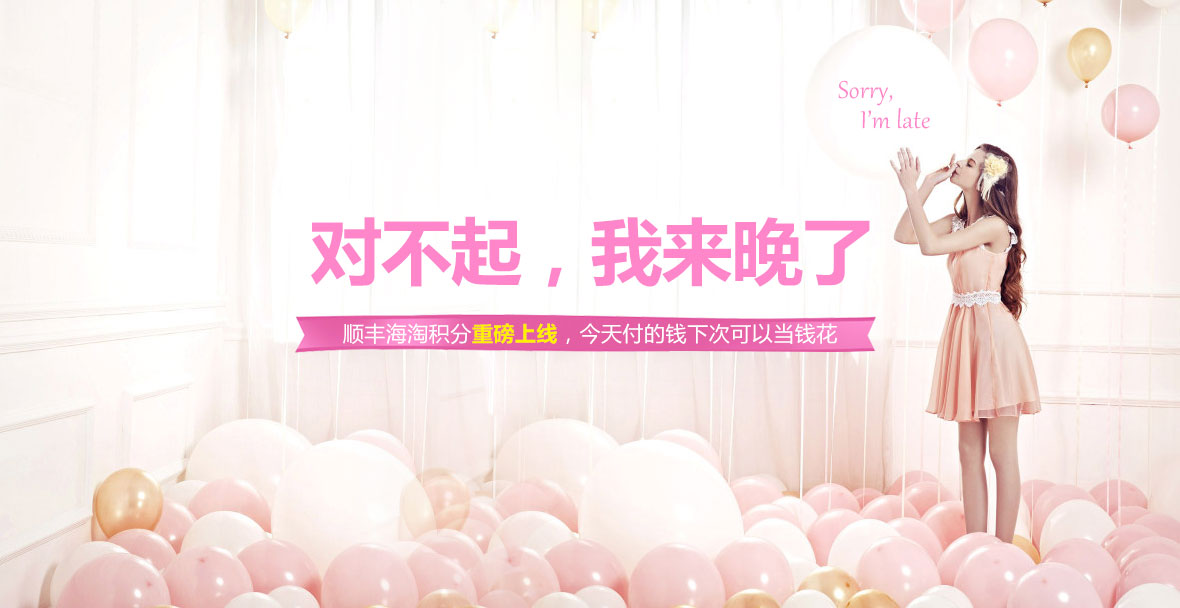
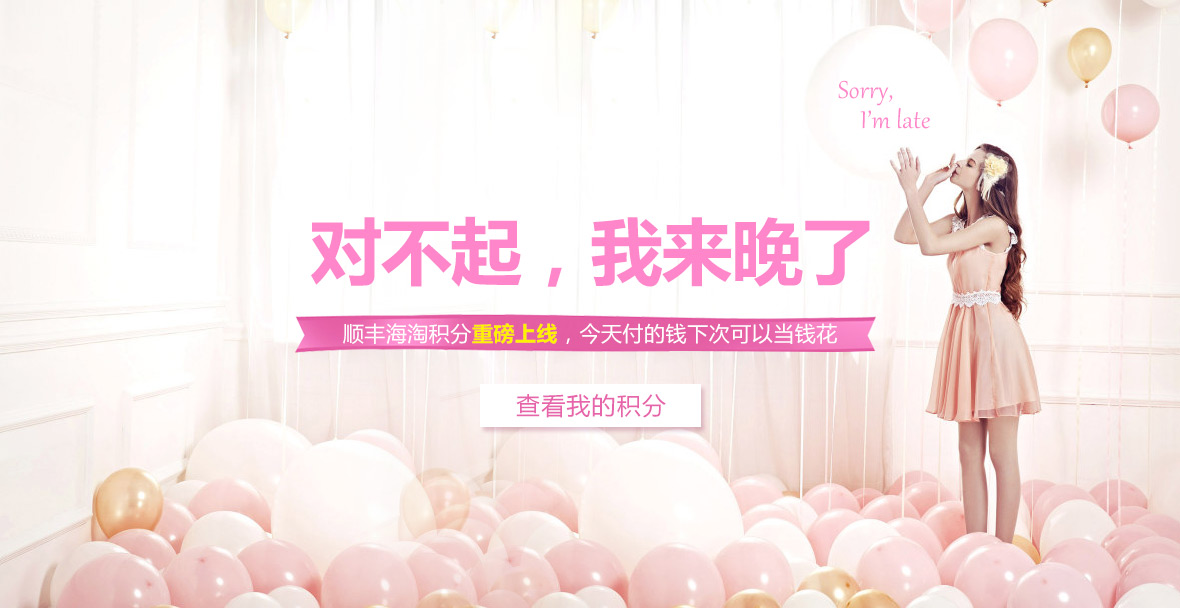
积分活动

Changed region(s): [[0.3966, 0.625, 0.6102, 0.7188]]

diff --git a/app/html/cart.html b/app/html/cart.html
@@ -1,1 +1,1 @@
-<!DOCTYPE html PUBLIC "-//W3C//DTD XHTML 1.0 Transitional//EN" "http://www.w3.org/TR/xhtml1/DTD/xhtml1-transitional.dtd"><html xmlns="http://www.w3.org/1999/xhtml"><head><meta http-equiv="Content-Type" content="text/html; charset=utf-8" /><meta name="viewport" content="width=1280"><title>确定订单</title><link href="../css/common.css" rel="stylesheet" type="text/css" /><link href="../css/cart.css" rel="stylesheet" type="text/css" /></head><body><div class="ph"><div class="header1"><div class="pm"><div class="header1-c1 fl"><a href=""><span class="icon icon11"></span>海淘首页</a><a href="">登录</a><a href="">免费注册</a></div><div class="header1-c2 fr"><a href="">个人中心</a><a href="">帮助中心</a><a href="">我的优惠券</a><a href="">帮助中心</a><a href="">在线客服</a></div></div></div><div class="header"><div class="pm clearfix"><div class="header-c1 fl"><a href="#" class="icon icon10">顺丰海淘</a></div><div class="header-c2 fr"><!--步骤--><!--<ul class="step"><ul class="step step2"><--><ul class="step step3"><li class="li1"><em>1</em>填写并核对订单信息<div class="step-arrow step-arrow-1"></div><div class="step-arrow step-arrow-2"></div></li><li class="li2"><em>2</em>成功提交订单<div class="step-arrow step-arrow-1"></div><div class="step-arrow step-arrow-2"></div></li><li class="li3"><em>3</em>订单支付成功</li></ul><!--步骤--></div></div>  </div><!--导航--><div class="nav"><div class="nav-inner"><div class="pm"><ul class="fl nav-c1"><li class="active"><a href="">首页</a></li><li><a href="">母婴专区</a></li><li><a href="">个护美装</a></li><li><a href="">食品保健</a></li><li><a href="">生活服饰</a><span class="icon icon54">NEW</span></li><li><a href="">黑5狂欢</a><span class="icon icon55">HOT</span></li><li><a href="">正品保障</a></li></ul><div class="nav-c2 fr"><a href=""><span class="icon icon100"></span><span class="nav-text">购物车</span><span class="label label-error"><i></i><span class="cart-num">6</span></span></a></div></div></div></div><div class="nav nav-fixed"><div class="nav-inner"><div class="pm"><ul class="fl nav-c1"><li class="active"><a href="">首页</a></li><li><a href="">母婴专区</a></li><li><a href="">个护美装</a></li><li><a href="">食品保健</a></li><li><a href="">生活服饰</a><span class="icon icon54">NEW</span></li><li><a href="">黑5狂欢</a><span class="icon icon55">HOT</span></li><li><a href="">正品保障</a></li></ul><div class="nav-c2 fr"><a href=""><span class="icon icon100"></span><span class="nav-text">购物车</span><span class="label label-error"><i></i><span class="cart-num">6</span></span></a></div></div></div></div></div><div class="pb"><div class="pm"> <!--购物车--><div class="cart"><div class="table"><table><thead><tr><th class="th1"><input type="checkbox">全选</th><th class="th2">商品信息</th><th class="th3">单价（元）</th><th class="th4">数量</th><th class="th5">金额</th><th class="th6">操作</th></tr></thead><tbody><tr><td class="td1" colspan="2"><input type="checkbox"> 搭配优惠：商品名称不要在意我叫神马</td><td class="td3"><strong>599.00</strong></td><td class="td4"><div><span class="btn btn-num"><a class="btn-num-reduce" href="#">-</a><a class="btn-num-add" href="#">+</a><input type="text" value="1"></span></div><p class="text-error">限购 2 套</p></td><td class="td5"><strong class="text-error">599.00</strong></td><td class="td6"><a class="icon icon72" href="">删除</a></td></tr><tr class="cart-match cart-match1"><td class="td1"><span class="label label-disabled">已下架</span> <a href=""><img src="http://placehold.it/75x75"></a></td><td class="td2"><h2><a href="">韩国Nature Republic自然乐园芦荟胶300ml/瓶x2</a></h2><div class="cart-standard">蓝色 20com</div></td><td class="td3"><del>1099.00</del><strong>599.00</strong><div class="icon icon73">限时促销</div></td><td class="td4"><div><span class="btn btn-num"><a class="btn-num-reduce" href="#">-</a><a class="btn-num-add" href="#">+</a><input type="text" value="1"></span></div><p class="text-error">限购 2 件</p></td><td class="td5"><strong class="text-error">599.00</strong></td><td class="td6"><a class="icon icon72" href="">删除</a></td></tr><tr class="cart-match"><td class="td1"><a href=""><img src="http://placehold.it/75x75"></a></td><td class="td2"><h2><a href="">韩国Nature Republic自然乐园芦荟胶300ml/瓶x2</a></h2><div class="cart-standard">蓝色 20com</div></td><td class="td3"><del>1099.00</del><strong>599.00</strong><div class="icon icon73">限时促销</div></td><td class="td4"><div><span class="btn btn-num"><a class="btn-num-reduce" href="#">-</a><a class="btn-num-add" href="#">+</a><input type="text" value="1"></span></div><p class="text-error">限购 2 件</p></td><td class="td5"><strong class="text-error">599.00</strong></td><td class="td6"><a class="icon icon72" href="">删除</a></td></tr><tr class="cart-match"><td class="td1"><a href=""><img src="http://placehold.it/75x75"></a></td><td class="td2"><h2><a href="">韩国Nature Republic自然乐园芦荟胶300ml/瓶x2</a></h2><div class="cart-standard">蓝色 20com</div></td><td class="td3"><del>1099.00</del><strong>599.00</strong><div class="icon icon73">限时促销</div></td><td class="td4"><div><span class="btn btn-num"><a class="btn-num-reduce" href="#">-</a><a class="btn-num-add" href="#">+</a><input type="text" value="1"></span></div><p class="text-error">限购 2 件</p></td><td class="td5"><strong class="text-error">599.00</strong></td><td class="td6"><a class="icon icon72" href="">删除</a></td></tr><tr><td class="td1"><input type="checkbox"> <a href=""><img src="http://placehold.it/75x75"></a></td><td class="td2"><h2><a href="">韩国Nature Republic自然乐园芦荟胶300ml/瓶x2</a></h2><div class="cart-standard">蓝色 20com</div></td><td class="td3"><del>1099.00</del><strong>599.00</strong><div class="icon icon73">限时促销</div></td><td class="td4"><div><span class="btn btn-num"><a class="btn-num-reduce" href="#">-</a><a class="btn-num-add" href="#">+</a><input type="text" value="1"></span></div><p class="text-error">限购 2 件</p></td><td class="td5"><strong class="text-error">599.00</strong></td><td class="td6"><a class="icon icon72" href="">删除</a></td></tr><tr><td class="td1"><input type="checkbox"> <a href=""><img src="http://placehold.it/75x75"></a></td><td class="td2"><h2><a href="">韩国Nature Republic自然乐园芦荟胶300ml/瓶x2</a></h2><div class="cart-standard">蓝色 20com</div></td><td class="td3"><strong>599.00</strong></td><td class="td4"><div><span class="btn btn-num"><a class="btn-num-reduce" href="#">-</a><a class="btn-num-add" href="#">+</a><input type="text" value="1"></span></div><p>限购 2 件</p></td><td class="td5"><strong class="text-error">599.00</strong></td><td class="td6"><a class="icon icon72" href="">删除</a></td></tr><tr><td class="td1"><input type="checkbox"> <a href=""><img src="http://placehold.it/75x75"></a></td><td class="td2"><h2><a href="">韩国Nature Republic自然乐园芦荟胶300ml/瓶x2</a></h2><div class="cart-standard">蓝色 20com</div></td><td class="td3"><strong>599.00</strong></td><td class="td4"><div><span class="btn btn-num"><a class="btn-num-reduce" href="#">-</a><a class="btn-num-add" href="#">+</a><input type="text" value="1"></span></div></td><td class="td5"><strong class="text-error">599.00</strong></td><td class="td6"><a class="icon icon72" href="">删除</a></td></tr><tr><td class="td1"><div class="cart-pos"><input type="checkbox"> <a href=""><img src="http://placehold.it/75x75"></a><span class="icon icon74">满折减</span></div></td><td class="td2"><div class="text-error">已满足2件8折优惠 <a class="text-error">更多活动内容>  </a></div><h2><a href="">韩国Nature Republic自然乐园芦荟胶300ml/瓶x2</a></h2><div class="cart-standard">蓝色 20com</div></td><td class="td3"><strong>599.00</strong></td><td class="td4"><div><span class="btn btn-num"><a class="btn-num-reduce" href="#">-</a><a class="btn-num-add" href="#">+</a><input type="text" value="1"></span></div></td><td class="td5"><del>1099.00</del><strong class="text-error">599.00</strong></td><td class="td6"><a class="icon icon72" href="">删除</a></td></tr><tr><td class="td1"><input type="checkbox"> <a href=""><img src="http://placehold.it/75x75"></a></td><td class="td2"><h2><a href="">韩国Nature Republic自然乐园芦荟胶300ml/瓶x2</a></h2><div class="cart-standard">蓝色 20com</div></td><td class="td3"><strong>599.00</strong></td><td class="td4"><div><span class="btn btn-num"><a class="btn-num-reduce" href="#">-</a><a class="btn-num-add" href="#">+</a><input type="text" value="1"></span></div></td><td class="td5"><strong class="text-error">599.00</strong></td><td class="td6"><a class="icon icon72" href="">删除</a></td></tr><tr><td class="td1"><input type="checkbox"> <a href=""><img src="http://placehold.it/75x75"></a></td><td class="td2"><h2><a href="">韩国Nature Republic自然乐园芦荟胶300ml/瓶x2</a></h2><div class="cart-standard">蓝色 20com</div></td><td class="td3"><strong>599.00</strong></td><td class="td4"><div><span class="btn btn-num"><a class="btn-num-reduce" href="#">-</a><a class="btn-num-add" href="#">+</a><input type="text" value="1"></span></div></td><td class="td5"><del>1099.00</del><strong class="text-error">599.00</strong></td><td class="td6"><a class="icon icon72" href="">删除</a></td></tr><tr class="cart-disable"><td class="td1"><input type="checkbox" disabled> <span class="label label-disabled">已下架</span>   <a href=""><img src="http://placehold.it/75x75"></a></td><td class="td2"><h2><a href="">韩国Nature Republic自然乐园芦荟胶300ml/瓶x2</a></h2><div class="cart-standard">蓝色 20com</div></td><td class="td3"><strong>599.00</strong></td><td class="td4">1</td><td class="td5"><del>1099.00</del><strong class="text-error">599.00</strong></td><td class="td6"><a class="icon icon72" href="">删除</a></td></tr><tr class="cart-disable"><td class="td1"><input type="checkbox" disabled> <span class="label label-disabled">已下架</span>   <a href=""><img src="http://placehold.it/75x75"></a></td><td class="td2"><h2><a href="">韩国Nature Republic自然乐园芦荟胶300ml/瓶x2</a></h2><div class="cart-standard">蓝色 20com</div></td><td class="td3"><strong>599.00</strong></td><td class="td4">1</td><td class="td5"><del>1099.00</del><strong class="text-error">599.00</strong></td><td class="td6"><a class="icon icon72" href="">删除</a></td></tr></tbody></table></div><div class="cart-footer cart-footer-fixed clearfix"><div class="cart-footer-c1 fl"><label><input type="checkbox" />全选</label>|<a href="">删除选中商品</a><a href="">清除无效商品</a></div><div class="cart-footer-c2 fr"><ul><li class="li1"><div class="tooltip-cart"><span class="icon icon77 fl"></span>您已经超过了海关<span class="text-error">限额¥1000</span>，请选择部分商品进行结算<span class="icon icon78"></span><span class="icon icon16-5"></span><span class="icon icon16-5 icon16-5-1"></span></div>总价（含税费） :<span class="s1"><strong class="text-error">¥1100</strong></span></li><li class="li1"><div class="tooltip-cart"><span class="icon icon77 fl"></span><span class="text-error">参加三个满减活动：省100</span><div class="tooltip-pos"><span class="icon icon78"></span><div class="tooltip-outer"><div class="tooltip tooltip-active"><ul><li>满足指定商品满<span class="text-important">200</span>减<span class="text-important">100</span>活动</li><li>满足指定商品满<span class="text-important">200</span>减<span class="text-important">50</span>活动</li><li>满足指定商品满<span class="text-important">200</span>减<span class="text-important">10</span>活动</li></ul><span class="icon icon16-3"><span class="icon icon16-4"></span></span></div></div></div><span class="icon icon16-5"></span><span class="icon icon16-5 icon16-5-1"></span></div>活动优惠 :<span class="s1">- ¥ 100</span></li></ul><button class="btn btn-disable">去结算</button></div><span class="icon icon75"></span><span class="icon icon76"></span></div></div><!--购物车--> </div></div><!--尾部--> <div class="pf"><a href="#" class="btn btn-top"><span class="icon icon57"></span></a><div class="footer1"><div class="pm"><ul class="clearfix"><li><span class="icon icon12"></span><h2>正品海外直采</h2><div class="footer1-line"></div></li><li><span class="icon icon13"></span><h2>国检监督入仓</h2><div class="footer1-line"></div></li><li><span class="icon icon14"></span><h2>快速清关报备</h2><div class="footer1-line"></div></li><li><span class="icon icon15"></span><h2>国内物流配送</h2><div class="footer1-line"></div></li><li><span class="icon icon65"></span><h2>用户收货确认</h2></li></ul></div></div><div class="footer2"><div class="pm clearfix"><div class="footer2-c1 fl"><span class="icon icon9"></span></div><div class="footer2-c2 fl"><dl><dt>顺丰海淘</dt><dd><a href="aboutus-aboutus.html">关于我们</a></dd><dd><a href="aboutus-policy.html">法律政策</a></dd><dd><a href="aboutus-contactus.html">联系我们</a></dd></dl><dl><dt>新手指南</dt><dd><a href="helpcenter-quality.html">正品保证</a></dd><dd><a href="helpcenter-shopping.html">购物指南</a></dd><dd><a href="helpcenter-cost.html">费用说明</a></dd></dl><dl><dt>帮助中心</dt><dd><a href="helpcenter-certification.html">实名认证</a></dd><dd><a href="helpcenter-signfor.html">签收说明</a></dd><dd><a href="helpcenter-transport-failure.html">运输时效</a></dd></dl><dl><dt>021-69763622</dt><dd>周一至周日 8:00 - 18:00 (节假日除外)</dd><dd><span class="icon icon41"></span><a href="mailto:sfht_service@sf-express.com">sfht_service@sf-express.com</a></dd><dd><span class="icon icon42"></span><a href="http://sf-ocs.sf-express.com:8080/live800/chatClient/chatbox.jsp?companyID=8935&amp;configID=20&amp;skillId=20&amp;enterurl=http%3A%2F%2Fsf-ocs%2Esf-express%2Ecom%3A8080%2Flive800%2Fpreview%2Ejsp&amp;pagereferrer=http%3A%2F%2Fsf-ocs%2Esf-express%2Ecom%3A8080%2Flive800%2FembedScript%2Ejsp%3FcurrentConfigId%3D20&amp;k=1">在线客服</a></dd></dl></div><div class="footer2-c4 fr">         <p>扫一扫下载App</p><img src="../img/qrcode.png" alt=""></div></div></div><div class="footer3">Copyright © 2015 SFHT.All Rights Reserved | 沪ICP备 1404464 顺丰速运集团（上海）速运有限公司 版权所有</div></div><!--尾部--> <script src="js/jquery-1.11.1.min.js"></script> <script src="js/index.js"></script><script src="js/cart.js"></script></body></html>
+<!DOCTYPE html PUBLIC "-//W3C//DTD XHTML 1.0 Transitional//EN" "http://www.w3.org/TR/xhtml1/DTD/xhtml1-transitional.dtd"><html xmlns="http://www.w3.org/1999/xhtml"><head><meta http-equiv="Content-Type" content="text/html; charset=utf-8" /><meta name="viewport" content="width=1280"><title>确定订单</title><link href="../css/common.css" rel="stylesheet" type="text/css" /><link href="../css/cart.css" rel="stylesheet" type="text/css" /></head><body><div class="ph"><div class="header1"><div class="pm"><div class="header1-c1 fl"><a href=""><span class="icon icon11"></span>海淘首页</a><a href="">登录</a><a href="">免费注册</a></div><div class="header1-c2 fr"><a href="">个人中心</a><a href="">帮助中心</a><a href="">我的优惠券</a><a href="">帮助中心</a><a href="">在线客服</a></div></div></div><div class="header"><div class="pm clearfix"><div class="header-c1 fl"><a href="#" class="icon icon10">顺丰海淘</a></div><div class="header-c2 fr"><!--步骤--><!--<ul class="step"><ul class="step step2"><--><ul class="step step3"><li class="li1"><em>1</em>填写并核对订单信息<div class="step-arrow step-arrow-1"></div><div class="step-arrow step-arrow-2"></div></li><li class="li2"><em>2</em>成功提交订单<div class="step-arrow step-arrow-1"></div><div class="step-arrow step-arrow-2"></div></li><li class="li3"><em>3</em>订单支付成功</li></ul><!--步骤--></div></div>  </div><!--导航--><div class="nav"><div class="nav-inner"><div class="pm"><ul class="fl nav-c1"><li class="active"><a href="">首页</a></li><li><a href="">母婴专区</a></li><li><a href="">个护美装</a></li><li><a href="">食品保健</a></li><li><a href="">生活服饰</a><span class="icon icon54">NEW</span></li><li><a href="">黑5狂欢</a><span class="icon icon55">HOT</span></li><li><a href="">正品保障</a></li></ul><div class="nav-c2 fr"><a href=""><span class="icon icon100"></span><span class="nav-text">购物车</span><span class="label label-error"><i></i><span class="cart-num">6</span></span></a></div></div></div></div><div class="nav nav-fixed"><div class="nav-inner"><div class="pm"><ul class="fl nav-c1"><li class="active"><a href="">首页</a></li><li><a href="">母婴专区</a></li><li><a href="">个护美装</a></li><li><a href="">食品保健</a></li><li><a href="">生活服饰</a><span class="icon icon54">NEW</span></li><li><a href="">黑5狂欢</a><span class="icon icon55">HOT</span></li><li><a href="">正品保障</a></li></ul><div class="nav-c2 fr"><a href=""><span class="icon icon100"></span><span class="nav-text">购物车</span><span class="label label-error"><i></i><span class="cart-num">6</span></span></a></div></div></div></div></div><div class="pb"><div class="pm"> <!--购物车--><div class="cart"><div class="table"><table><thead><tr><th class="th1"><input type="checkbox">全选</th><th class="th2">商品信息</th><th class="th3">单价（元）</th><th class="th4">数量</th><th class="th5">金额</th><th class="th6">操作</th></tr></thead><tbody><tr><td class="td1" colspan="2"><input type="checkbox"> 搭配优惠：商品名称不要在意我叫神马</td><td class="td3"><strong>599.00</strong></td><td class="td4"><div><span class="btn btn-num"><a class="btn-num-reduce" href="#">-</a><a class="btn-num-add" href="#">+</a><input type="text" value="1"></span></div><p class="text-error">限购 2 套</p></td><td class="td5"><strong class="text-error">599.00</strong></td><td class="td6"><a class="icon icon72" href="">删除</a></td></tr><tr class="cart-match cart-match1"><td class="td1"><span class="label label-disabled">已下架</span> <a href=""><img src="http://placehold.it/75x75"></a></td><td class="td2"><h2><a href="">韩国Nature Republic自然乐园芦荟胶300ml/瓶x2</a></h2><div class="cart-standard">蓝色 20com</div></td><td class="td3"><del>1099.00</del><strong>599.00</strong><div class="icon icon73">限时促销</div></td><td class="td4"><p class="text-error">限购 2 件</p></td><td class="td5"><strong class="text-error">599.00</strong></td><td class="td6"><a class="icon icon72" href="">删除</a></td></tr><tr class="cart-match"><td class="td1"><a href=""><img src="http://placehold.it/75x75"></a></td><td class="td2"><h2><a href="">韩国Nature Republic自然乐园芦荟胶300ml/瓶x2</a></h2><div class="cart-standard">蓝色 20com</div></td><td class="td3"><del>1099.00</del><strong>599.00</strong><div class="icon icon73">限时促销</div></td><td class="td4"><p class="text-error">限购 2 件</p></td><td class="td5"><strong class="text-error">599.00</strong></td><td class="td6"><a class="icon icon72" href="">删除</a></td></tr><tr class="cart-match"><td class="td1"><a href=""><img src="http://placehold.it/75x75"></a></td><td class="td2"><h2><a href="">韩国Nature Republic自然乐园芦荟胶300ml/瓶x2</a></h2><div class="cart-standard">蓝色 20com</div></td><td class="td3"><del>1099.00</del><strong>599.00</strong><div class="icon icon73">限时促销</div></td><td class="td4"><p class="text-error">限购 2 件</p></td><td class="td5"><strong class="text-error">599.00</strong></td><td class="td6"><a class="icon icon72" href="">删除</a></td></tr><tr><td class="td1"><input type="checkbox"> <a href=""><img src="http://placehold.it/75x75"></a></td><td class="td2"><h2><a href="">韩国Nature Republic自然乐园芦荟胶300ml/瓶x2</a></h2><div class="cart-standard">蓝色 20com</div></td><td class="td3"><del>1099.00</del><strong>599.00</strong><div class="icon icon73">限时促销</div></td><td class="td4"><p class="text-error">限购 2 件</p></td><td class="td5"><strong class="text-error">599.00</strong></td><td class="td6"><a class="icon icon72" href="">删除</a></td></tr><tr><td class="td1"><input type="checkbox"> <a href=""><img src="http://placehold.it/75x75"></a></td><td class="td2"><h2><a href="">韩国Nature Republic自然乐园芦荟胶300ml/瓶x2</a></h2><div class="cart-standard">蓝色 20com</div></td><td class="td3"><strong>599.00</strong></td><td class="td4"><p>限购 2 件</p></td><td class="td5"><strong class="text-error">599.00</strong></td><td class="td6"><a class="icon icon72" href="">删除</a></td></tr><tr><td class="td1"><input type="checkbox"> <a href=""><img src="http://placehold.it/75x75"></a></td><td class="td2"><h2><a href="">韩国Nature Republic自然乐园芦荟胶300ml/瓶x2</a></h2><div class="cart-standard">蓝色 20com</div></td><td class="td3"><strong>599.00</strong></td><td class="td4"><div><span class="btn btn-num"><a class="btn-num-reduce" href="#">-</a><a class="btn-num-add" href="#">+</a><input type="text" value="1"></span></div></td><td class="td5"><strong class="text-error">599.00</strong></td><td class="td6"><a class="icon icon72" href="">删除</a></td></tr><tr><td class="td1"><div class="cart-pos"><input type="checkbox"> <a href=""><img src="http://placehold.it/75x75"></a><span class="icon icon74">满折减</span></div></td><td class="td2"><div class="text-error">已满足2件8折优惠 <a class="text-error">更多活动内容>  </a></div><h2><a href="">韩国Nature Republic自然乐园芦荟胶300ml/瓶x2</a></h2><div class="cart-standard">蓝色 20com</div></td><td class="td3"><strong>599.00</strong></td><td class="td4"><div><span class="btn btn-num"><a class="btn-num-reduce" href="#">-</a><a class="btn-num-add" href="#">+</a><input type="text" value="1"></span></div></td><td class="td5"><del>1099.00</del><strong class="text-error">599.00</strong></td><td class="td6"><a class="icon icon72" href="">删除</a></td></tr><tr><td class="td1"><input type="checkbox"> <a href=""><img src="http://placehold.it/75x75"></a></td><td class="td2"><h2><a href="">韩国Nature Republic自然乐园芦荟胶300ml/瓶x2</a></h2><div class="cart-standard">蓝色 20com</div></td><td class="td3"><strong>599.00</strong></td><td class="td4"><div><span class="btn btn-num"><a class="btn-num-reduce" href="#">-</a><a class="btn-num-add" href="#">+</a><input type="text" value="1"></span></div></td><td class="td5"><strong class="text-error">599.00</strong></td><td class="td6"><a class="icon icon72" href="">删除</a></td></tr><tr><td class="td1"><input type="checkbox"> <a href=""><img src="http://placehold.it/75x75"></a></td><td class="td2"><h2><a href="">韩国Nature Republic自然乐园芦荟胶300ml/瓶x2</a></h2><div class="cart-standard">蓝色 20com</div></td><td class="td3"><strong>599.00</strong></td><td class="td4"><div><span class="btn btn-num"><a class="btn-num-reduce" href="#">-</a><a class="btn-num-add" href="#">+</a><input type="text" value="1"></span></div></td><td class="td5"><del>1099.00</del><strong class="text-error">599.00</strong></td><td class="td6"><a class="icon icon72" href="">删除</a></td></tr><tr class="cart-disable"><td class="td1"><input type="checkbox" disabled> <span class="label label-disabled">已下架</span>   <a href=""><img src="http://placehold.it/75x75"></a></td><td class="td2"><h2><a href="">韩国Nature Republic自然乐园芦荟胶300ml/瓶x2</a></h2><div class="cart-standard">蓝色 20com</div></td><td class="td3"><strong>599.00</strong></td><td class="td4">1</td><td class="td5"><del>1099.00</del><strong class="text-error">599.00</strong></td><td class="td6"><a class="icon icon72" href="">删除</a></td></tr><tr class="cart-disable"><td class="td1"><input type="checkbox" disabled> <span class="label label-disabled">已下架</span>   <a href=""><img src="http://placehold.it/75x75"></a></td><td class="td2"><h2><a href="">韩国Nature Republic自然乐园芦荟胶300ml/瓶x2</a></h2><div class="cart-standard">蓝色 20com</div></td><td class="td3"><strong>599.00</strong></td><td class="td4">1</td><td class="td5"><del>1099.00</del><strong class="text-error">599.00</strong></td><td class="td6"><a class="icon icon72" href="">删除</a></td></tr></tbody></table></div><div class="cart-footer cart-footer-fixed clearfix"><div class="cart-footer-c1 fl"><label><input type="checkbox" />全选</label>|<a href="">删除选中商品</a><a href="">清除无效商品</a></div><div class="cart-footer-c2 fr"><ul><li class="li1"><div class="tooltip-cart"><span class="icon icon77 fl"></span>您已经超过了海关<span class="text-error">限额¥1000</span>，请选择部分商品进行结算<span class="icon icon78"></span><span class="icon icon16-5"></span><span class="icon icon16-5 icon16-5-1"></span></div>总价（含税费） :<span class="s1"><strong class="text-error">¥1100</strong></span></li><li class="li1"><div class="tooltip-cart"><span class="icon icon77 fl"></span><span class="text-error">参加三个满减活动：省100</span><div class="tooltip-pos"><span class="icon icon78"></span><div class="tooltip-outer"><div class="tooltip tooltip-active"><ul><li>满足指定商品满<span class="text-important">200</span>减<span class="text-important">100</span>活动</li><li>满足指定商品满<span class="text-important">200</span>减<span class="text-important">50</span>活动</li><li>满足指定商品满<span class="text-important">200</span>减<span class="text-important">10</span>活动</li></ul><span class="icon icon16-3"><span class="icon icon16-4"></span></span></div></div></div><span class="icon icon16-5"></span><span class="icon icon16-5 icon16-5-1"></span></div>活动优惠 :<span class="s1">- ¥ 100</span></li></ul><button class="btn btn-disable">去结算</button></div><span class="icon icon75"></span><span class="icon icon76"></span></div></div><!--购物车--> </div></div><!--尾部--> <div class="pf"><a href="#" class="btn btn-top"><span class="icon icon57"></span></a><div class="footer1"><div class="pm"><ul class="clearfix"><li><span class="icon icon12"></span><h2>正品海外直采</h2><div class="footer1-line"></div></li><li><span class="icon icon13"></span><h2>国检监督入仓</h2><div class="footer1-line"></div></li><li><span class="icon icon14"></span><h2>快速清关报备</h2><div class="footer1-line"></div></li><li><span class="icon icon15"></span><h2>国内物流配送</h2><div class="footer1-line"></div></li><li><span class="icon icon65"></span><h2>用户收货确认</h2></li></ul></div></div><div class="footer2"><div class="pm clearfix"><div class="footer2-c1 fl"><span class="icon icon9"></span></div><div class="footer2-c2 fl"><dl><dt>顺丰海淘</dt><dd><a href="aboutus-aboutus.html">关于我们</a></dd><dd><a href="aboutus-policy.html">法律政策</a></dd><dd><a href="aboutus-contactus.html">联系我们</a></dd></dl><dl><dt>新手指南</dt><dd><a href="helpcenter-quality.html">正品保证</a></dd><dd><a href="helpcenter-shopping.html">购物指南</a></dd><dd><a href="helpcenter-cost.html">费用说明</a></dd></dl><dl><dt>帮助中心</dt><dd><a href="helpcenter-certification.html">实名认证</a></dd><dd><a href="helpcenter-signfor.html">签收说明</a></dd><dd><a href="helpcenter-transport-failure.html">运输时效</a></dd></dl><dl><dt>021-69763622</dt><dd>周一至周日 8:00 - 18:00 (节假日除外)</dd><dd><span class="icon icon41"></span><a href="mailto:sfht_service@sf-express.com">sfht_service@sf-express.com</a></dd><dd><span class="icon icon42"></span><a href="http://sf-ocs.sf-express.com:8080/live800/chatClient/chatbox.jsp?companyID=8935&amp;configID=20&amp;skillId=20&amp;enterurl=http%3A%2F%2Fsf-ocs%2Esf-express%2Ecom%3A8080%2Flive800%2Fpreview%2Ejsp&amp;pagereferrer=http%3A%2F%2Fsf-ocs%2Esf-express%2Ecom%3A8080%2Flive800%2FembedScript%2Ejsp%3FcurrentConfigId%3D20&amp;k=1">在线客服</a></dd></dl></div><div class="footer2-c4 fr">         <p>扫一扫下载App</p><img src="../img/qrcode.png" alt=""></div></div></div><div class="footer3">Copyright © 2015 SFHT.All Rights Reserved | 沪ICP备 1404464 顺丰速运集团（上海）速运有限公司 版权所有</div></div><!--尾部--> <script src="js/jquery-1.11.1.min.js"></script> <script src="js/index.js"></script><script src="js/cart.js"></script></body></html>

diff --git a/app/html/integral-active.html b/app/html/integral-active.html
@@ -1,1 +1,1 @@
-<!DOCTYPE html PUBLIC "-//W3C//DTD XHTML 1.0 Transitional//EN" "http://www.w3.org/TR/xhtml1/DTD/xhtml1-transitional.dtd"><html xmlns="http://www.w3.org/1999/xhtml"><head><meta http-equiv="Content-Type" content="text/html; charset=utf-8" /><meta name="viewport" content="width=1280"><title>积分</title><link href="../css/common.css" rel="stylesheet" type="text/css" /><link href="../css/integral-active.css" rel="stylesheet" type="text/css" /></head><body><div class="integral-active"><div class="integral-active-r1"></div><div class="integral-active-r2"></div><div class="integral-active-r3"></div><div class="integral-active-r4"><a href="">去看看你得积分吧</a></div></div></body></html>
+<!DOCTYPE html PUBLIC "-//W3C//DTD XHTML 1.0 Transitional//EN" "http://www.w3.org/TR/xhtml1/DTD/xhtml1-transitional.dtd"><html xmlns="http://www.w3.org/1999/xhtml"><head><meta http-equiv="Content-Type" content="text/html; charset=utf-8" /><meta name="viewport" content="width=1280"><title>积分</title><link href="../css/common.css" rel="stylesheet" type="text/css" /><link href="../css/integral-active.css" rel="stylesheet" type="text/css" /></head><body><div class="integral-active"><div class="integral-active-r1"><a href="">查看我的积分</a></div><div class="integral-active-r2"></div><div class="integral-active-r3"></div><div class="integral-active-r4"><a href="">去看看你得积分吧</a></div></div></body></html>

diff --git a/app/css/integral-active.css b/app/css/integral-active.css
@@ -1,1 +1,1 @@
-.integral-active-r1{height:608px;background:url(../img/integral-active/integral-active_01.jpg) no-repeat center}.integral-active-r2{height:608px;background:url(../img/integral-active/integral-active_02.jpg) no-repeat center}.integral-active-r3{height:646px;background:url(../img/integral-active/integral-active_03.jpg) no-repeat center}.integral-active-r4 a{display:block;text-indent:-999em;height:186px;background:url(../img/integral-active/integral-active_04.jpg) no-repeat center}
+.integral-active-r1 a{display:block;text-indent:-999em;height:608px;background:url(../img/integral-active/integral-active_01.jpg) no-repeat center}.integral-active-r2{height:608px;background:url(../img/integral-active/integral-active_02.jpg) no-repeat center}.integral-active-r3{height:646px;background:url(../img/integral-active/integral-active_03.jpg) no-repeat center}.integral-active-r4 a{display:block;text-indent:-999em;height:186px;background:url(../img/integral-active/integral-active_04.jpg) no-repeat center}

diff --git a/app/scss/integral-active.scss b/app/scss/integral-active.scss
@@ -1,6 +1,8 @@
 @import 'utils/variables';
 @import 'utils/placeholders';
-.integral-active-r1{
+.integral-active-r1 a{
+	display: block;
+	text-indent: -999em;
 	height: 608px;
 	background: url(#{$bg-url}integral-active/integral-active_01.jpg) no-repeat center;
 }
